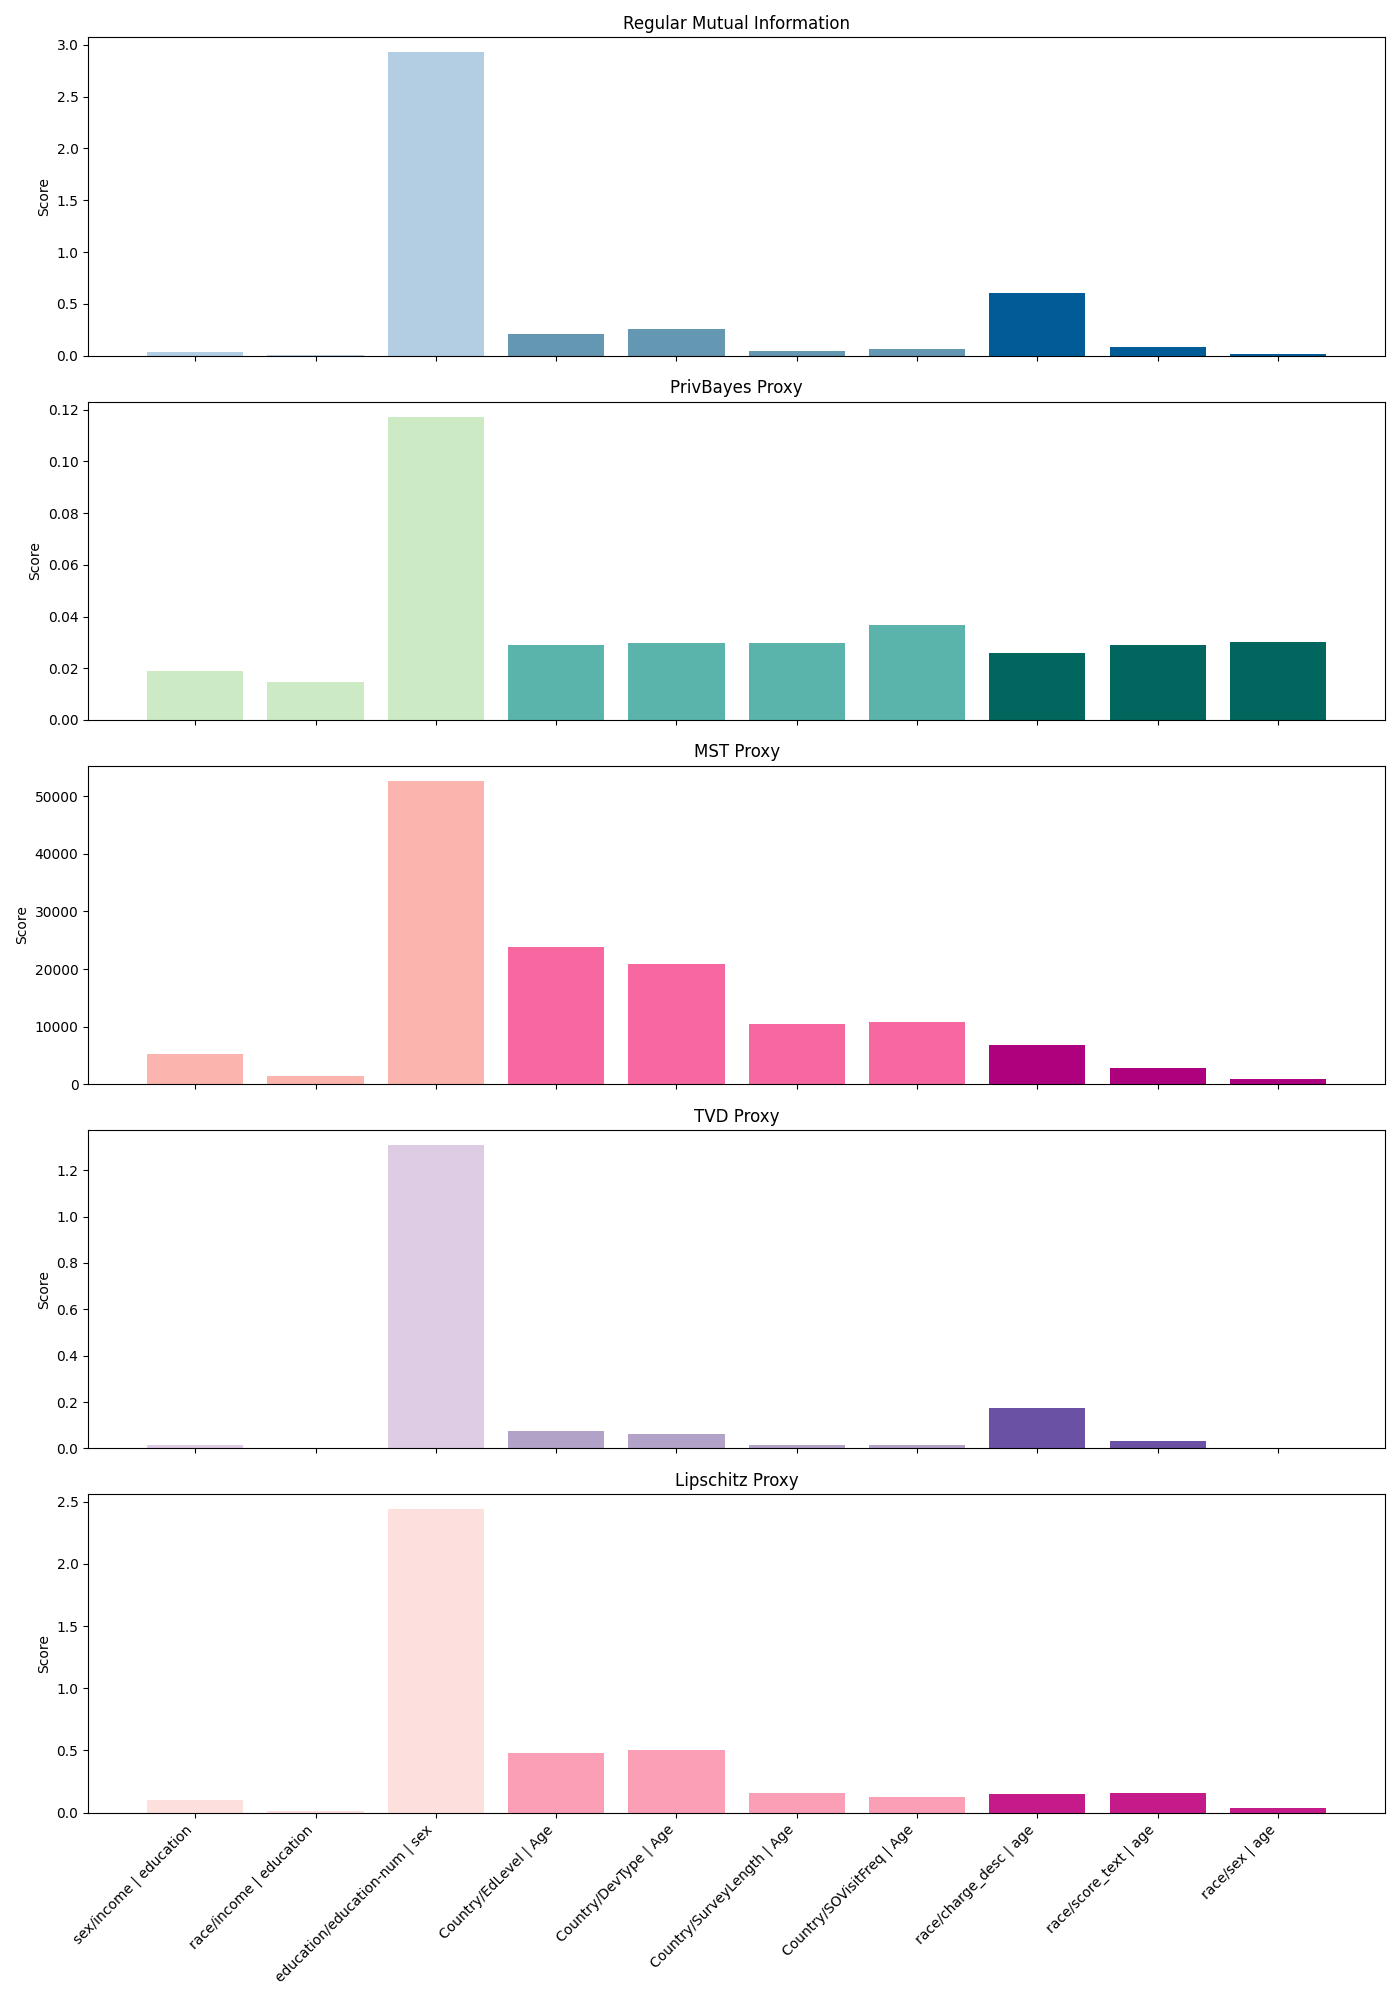
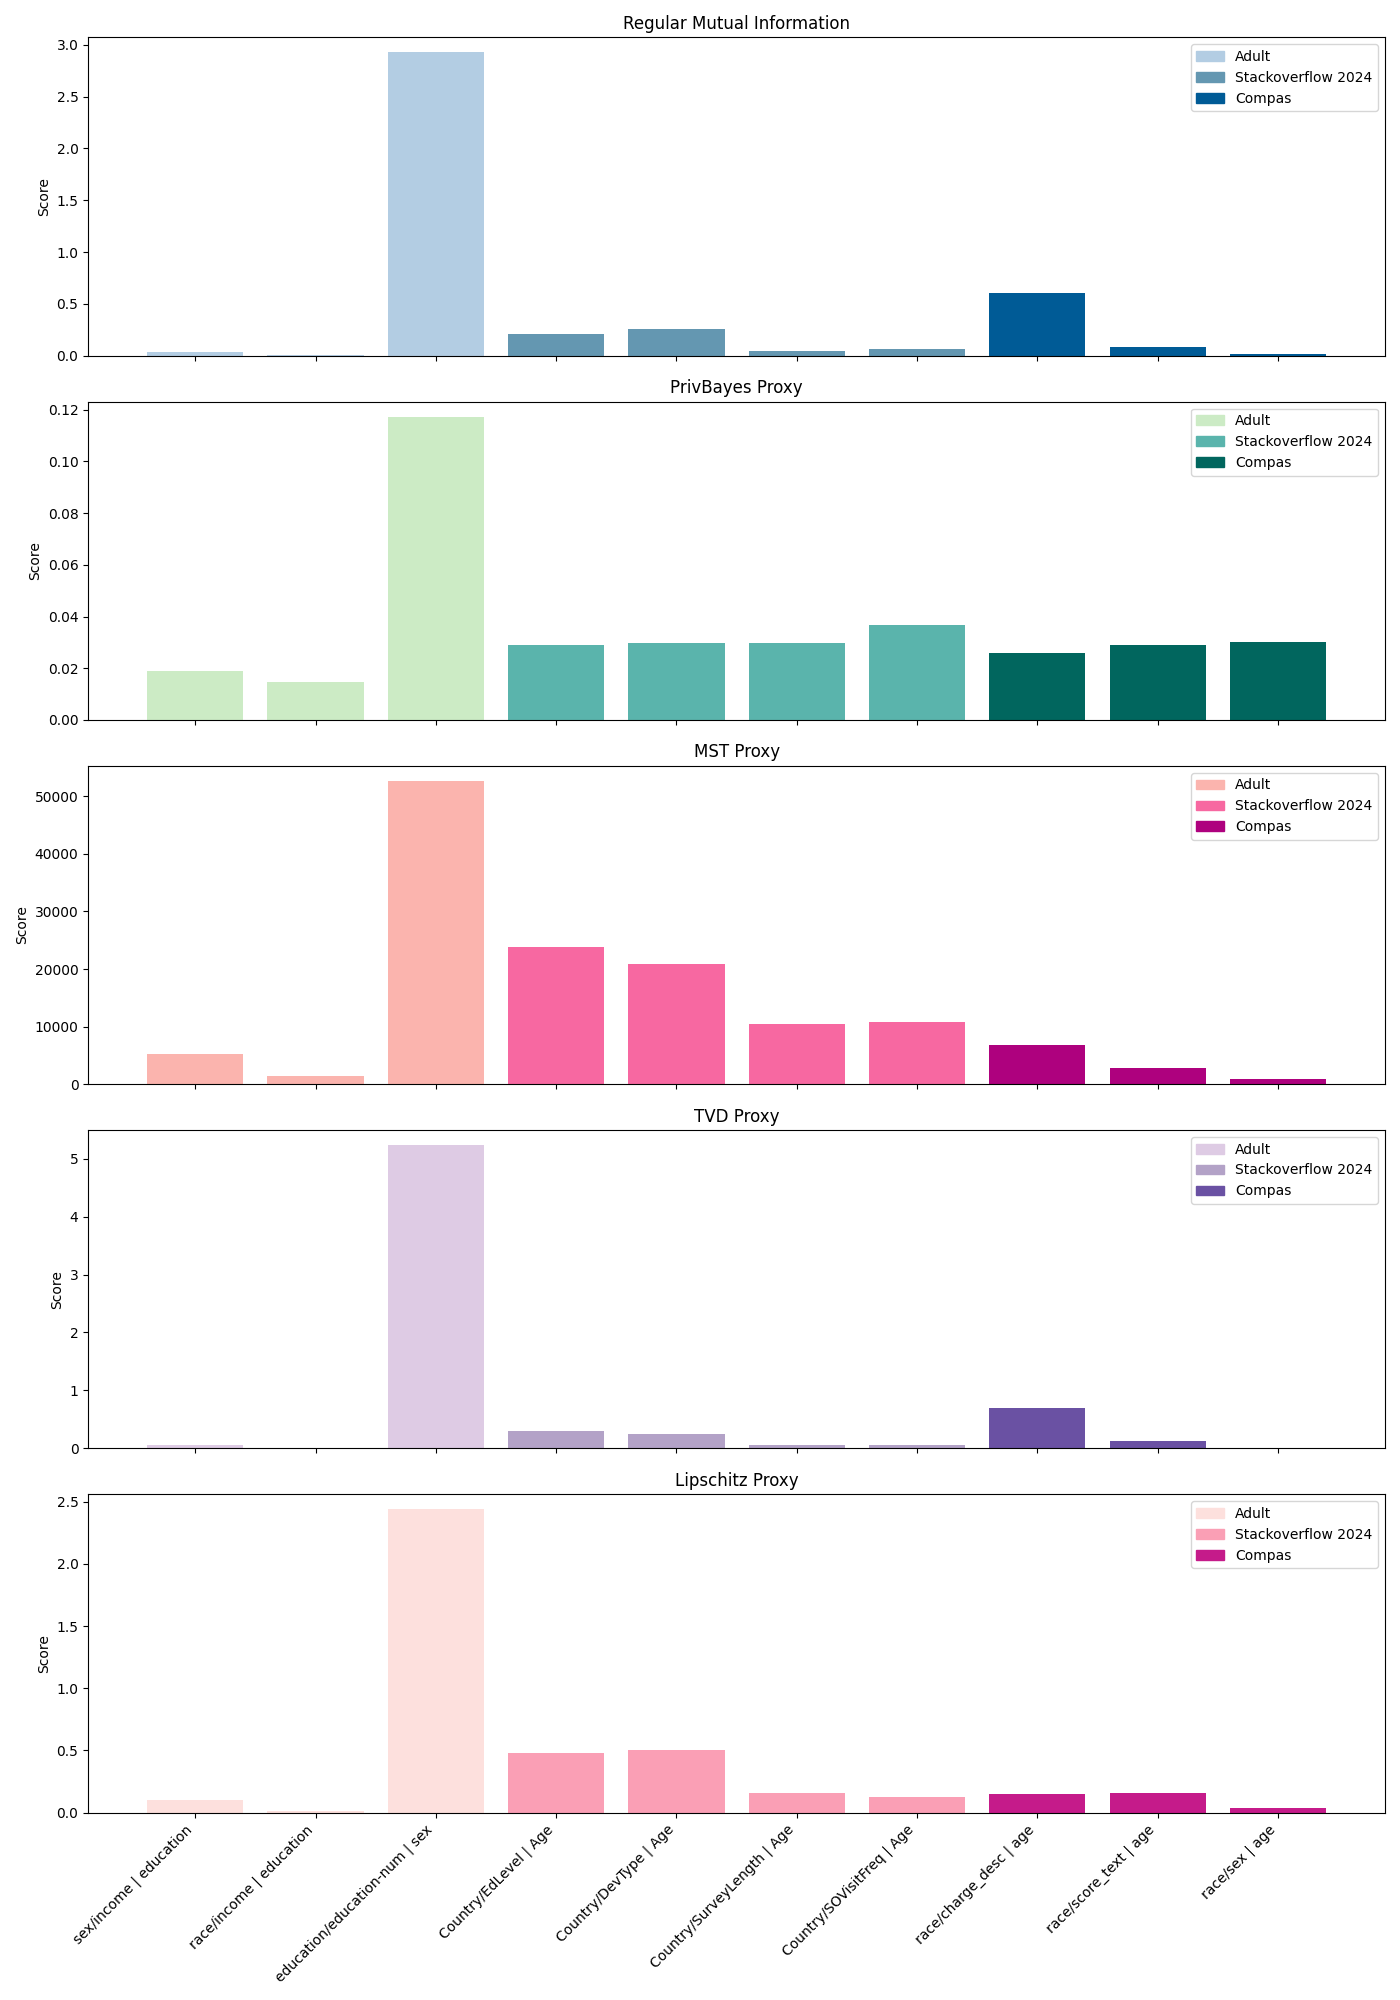
Added color guide to plots

diff --git a/main.py b/main.py
@@ -1,3 +1,4 @@
+import matplotlib.patches as mpatches
 import numpy as np
 from matplotlib import pyplot as plt
 
@@ -6,7 +7,6 @@ from proxy_mutual_information_lipshitz import ProxyMutualInformationLipschitz
 from proxy_mutual_information_nist_contest import ProxyMutualInformationNistContest
 from proxy_mutual_information_privbayes import ProxyMutualInformationPrivbayes
 from proxy_mutual_information_tvd import ProxyMutualInformationTVD
-from repair_maxsat import ProxyRepairMaxSat
 
 
 def calculate_mi_proxies(dataset, attributes, domain_paths, label):
@@ -33,7 +33,7 @@ def calculate_mi_proxies(dataset, attributes, domain_paths, label):
 def plot_mi_proxies(plot_name):
     """
     Plots bar charts for Mutual Information and its four proxies:
-    PrivBayes, MST, TVD, and Lipschitz-smoothed MI.
+    PrivBayes, MST, TVD, and Lipschitz-smoothed MI, each with a color legend.
 
     Parameters:
         plot_name (str): Filename to save the plot.
@@ -55,6 +55,9 @@ def plot_mi_proxies(plot_name):
         ("Lipschitz Proxy", lipschitz_results, grouped_colors['lipschitz'])
     ]
 
+    legend_labels = ["Adult", "Stackoverflow 2024", "Compas"]
+    legend_indices = [0, 3, 7]  # Index ranges for groups: 0–2, 3–6, 7–9
+
     x = np.arange(len(labels))
     fig, axes = plt.subplots(len(result_sets), 1, figsize=(14, 20), sharex=True)
 
@@ -63,6 +66,13 @@ def plot_mi_proxies(plot_name):
         ax.set_title(title)
         ax.set_ylabel("Score")
         ax.grid(False)
+
+        # Create legend from group colors
+        legend_patches = [
+            mpatches.Patch(color=colors[i], label=legend_labels[j])
+            for j, i in enumerate(legend_indices)
+        ]
+        ax.legend(handles=legend_patches, loc="upper right")
 
     plt.xticks(ticks=x, labels=labels, rotation=45, ha="right")
     plt.tight_layout()
